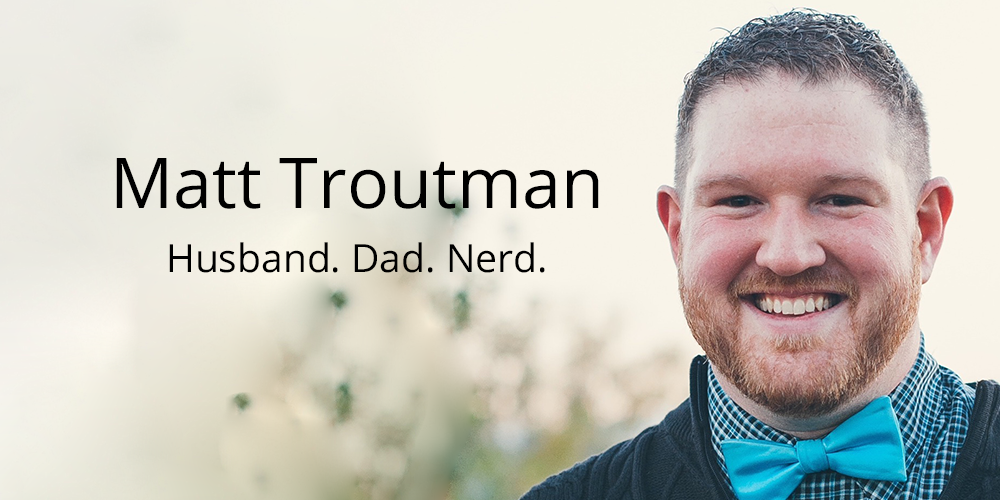
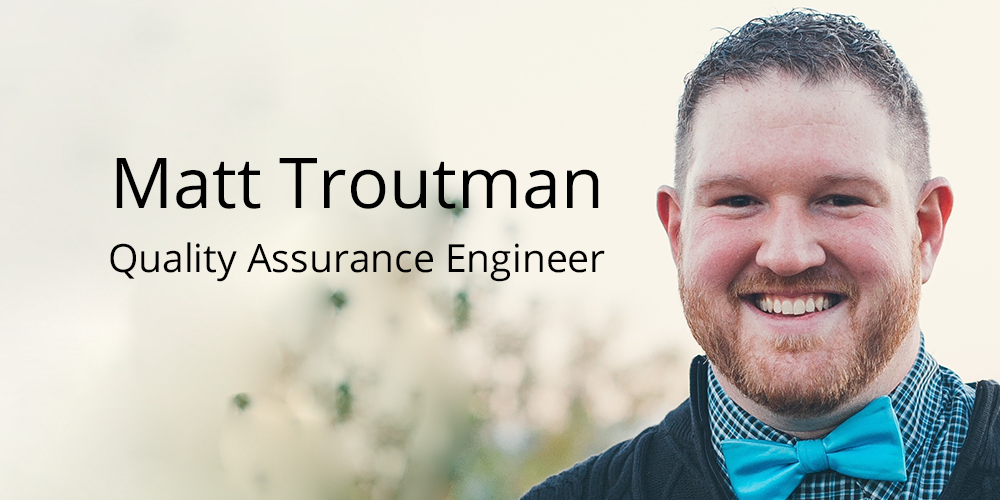
Updating twitter images for casual vs business

Changed region(s): [[0.093, 0.48, 0.62, 0.57]]

diff --git a/index.html b/index.html
@@ -23,7 +23,7 @@
         <meta property="og:site_name" content="TRTMN" />
         <meta property="og:url" content="http://trtmn.com"/>
         <meta property="og:description" content="Matt Troutman is a Dad, Husband, and a technophile. In the tech industry for over 10 years, Matt is passionate about introducing new technologies to people." />
-        <meta property="og:image" content="http://trtmn.com/twitter.png" />
+        <meta property="og:image" content="http://trtmn.com/twitter_casual.png" />
         <!--Standard Metadata-->
         <meta name="keywords" content="Quality Assurance, quality, SurveyMonkey, technophile, musician, Matt Troutman, trtmn, Truett Troutman, Mid-America Nazarene Univerity, Sarah Troutman, Music, Django, GeniusLounge, Apple, Genius, GeniusBar, Genius Bar, Webmaster, San Jose, California, San Francisco, Marin, Palo Alto, San Mateo, Mateo, Matias, Kirksville MO, Ethel MO, Fishy, Topeka KS, Olathe, Gardner KS, Gardner, technology" />
         <meta name="author" content="Matt Troutman" />
@@ -35,7 +35,7 @@
         <meta name="twitter:creator" content="@trtmn" />
         <meta name="twitter:title" content="Matt Troutman" />
         <meta name="twitter:description" content="Matt Troutman is a Dad, Husband, and a technophile. In the tech industry for over 10 years, Matt is passionate about introducing new technologies to people." />
-        <meta name="twitter:image" content="http://trtmn.com/twitter.png" />
+        <meta name="twitter:image" content="http://trtmn.com/twitter_casual.png" />
         <script>
           (function(i,s,o,g,r,a,m){i['GoogleAnalyticsObject']=r;i[r]=i[r]||function(){
           (i[r].q=i[r].q||[]).push(arguments)},i[r].l=1*new Date();a=s.createElement(o),
